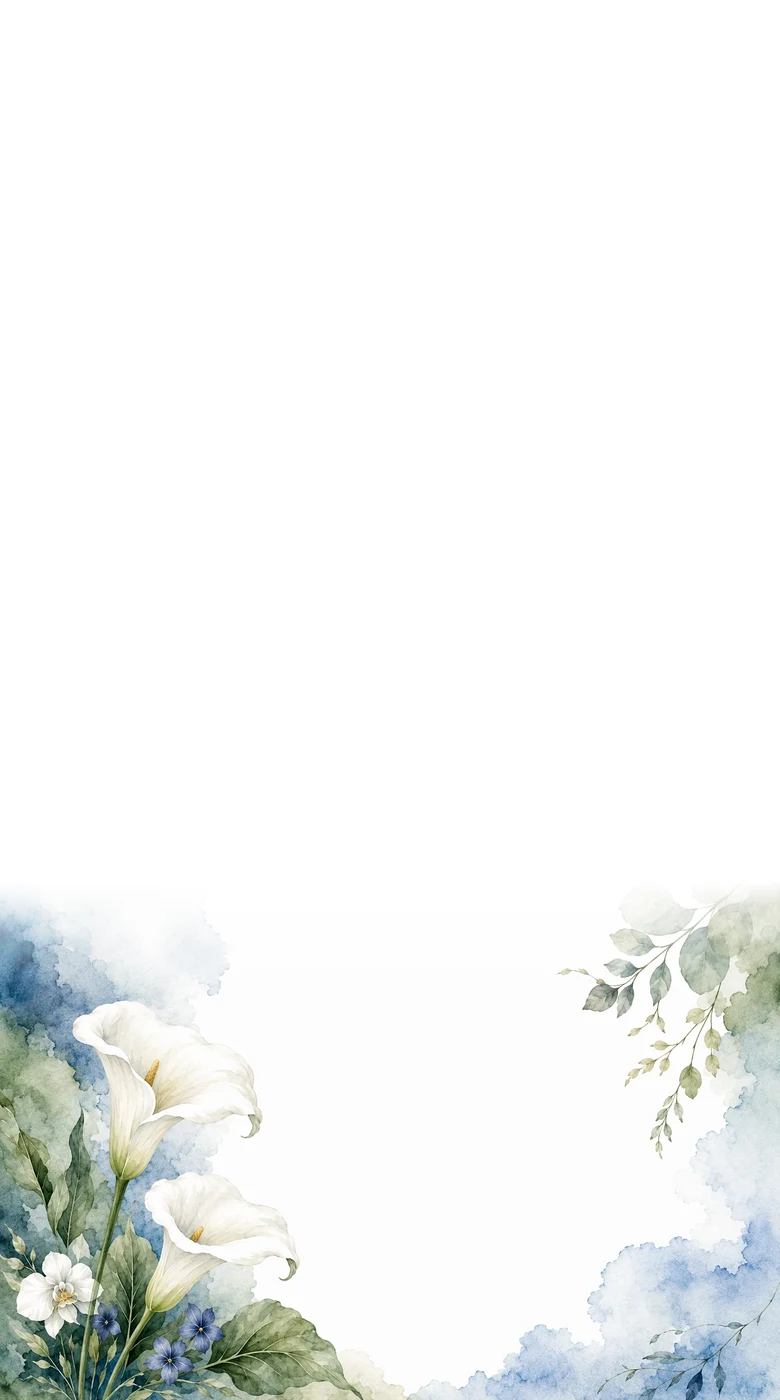
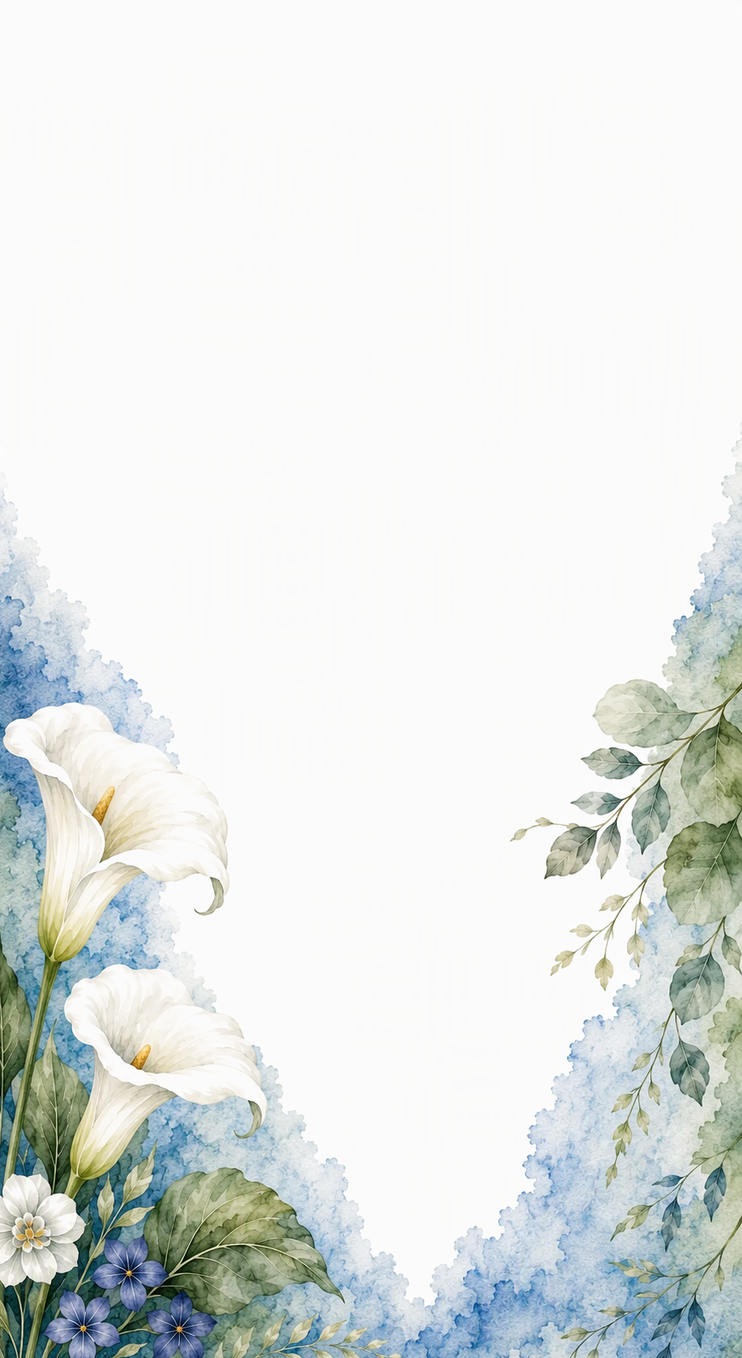
refina abertura mobile em V e substitui foto do casal

Changed region(s): [[0.0, 0.3402, 1.0, 1.0], [0.248, 0.7113, 0.279, 0.7423]]

diff --git a/src/index.css b/src/index.css
@@ -393,14 +393,18 @@
 /* Mobile composto em papel vertical; desktop acima de 860px permanece intacto. */
 @media (max-width: 860px) {
   .convite-site .herbario-abertura {
-    min-height: 0; padding: .5rem 1.25rem 12.5rem;
+    min-height: calc(100vw * 1358 / 742); padding: .5rem 1.25rem 12.5rem;
+    align-items: start;
     background: #fff url('/rebranding/mobile/abertura.webp') center bottom / 100% auto no-repeat;
   }
   .convite-site .herbario-texto { width: 100%; max-width: 30rem; margin: 0 auto; padding: 0; }
   .convite-site .herbario-convite { max-width: 18rem; margin-bottom: 1rem; }
-  .convite-site .herbario-nomes { font-size: clamp(4.5rem, 20vw, 6.5rem); line-height: 1.18; margin-top: 1.25rem; }
+  .convite-site .herbario-nomes { font-size: clamp(4.5rem, 20vw, 6.5rem); line-height: 1.1; margin-top: .5rem; }
   .convite-site .herbario-e { line-height: 1.15; margin: .2rem 0; }
-  .convite-site .data-destaque { margin-top: 1.5rem; padding: .6rem; }
+  .convite-site .data-destaque { margin-top: .75rem; padding: .6rem; }
+  .convite-site .abertura-local > span { display: block; }
+  .convite-site .abertura-local .abertura-local-separador { display: none; }
+  .convite-site .abertura-local > span:last-child { margin-top: .25rem; }
   .convite-site .herbario-acoes { margin-top: .75rem; }
   .convite-site .historia-livro,
   .convite-site .programa-dia,

diff --git a/src/features/casamento/Abertura.tsx b/src/features/casamento/Abertura.tsx
@@ -13,12 +13,9 @@ export default function Abertura() {
         <div className="data-destaque">
           <time dateTime={casamento.dataIso} className="data-por-extenso">{casamento.data}</time>
           <p className="data-destaque-local">{casamento.diaDaSemana}, às {casamento.horario}</p>
-          <p className="data-destaque-local">{casamento.local} · {casamento.cidade}</p>
+          <p className="data-destaque-local abertura-local"><span>{casamento.local}</span><span className="abertura-local-separador"> · </span><span>{casamento.cidade}</span></p>
         </div>
-        <nav className="herbario-acoes" aria-label="Ações do convite">
-          <a href="#presenca" className="acao-secundaria">Responder ao convite</a>
-          <a href="#casamento" className="acao-secundaria">Programa do dia</a>
-        </nav>
+
       </div>
     </section>
   );

diff --git a/src/features/casamento/NossaHistoria.tsx b/src/features/casamento/NossaHistoria.tsx
@@ -8,7 +8,7 @@ export default function NossaHistoria() {
           <img src="/rebranding/casal-celebracao.webp" width={1280} height={853} alt="Victória e Flávio abraçados durante uma celebração" loading="lazy" />
         </figure>
         <figure className="foto-album foto-juntos">
-          <img src="/rebranding/casal-juntos.webp" width={1400} height={788} alt="Victória e Flávio sorrindo juntos" loading="lazy" />
+          <img src="/rebranding/casal-juntos.webp" width={1400} height={788} alt="Flávio segurando Victória no colo, os dois sorrindo ao ar livre" loading="lazy" />
         </figure>
         <img src="/copo-de-leite-cartao.webp" width={819} height={524} alt="" aria-hidden="true" loading="lazy" className="album-flor" />
       </div>

diff --git a/docs/identidade-e-layout.md b/docs/identidade-e-layout.md
@@ -55,7 +55,7 @@ Usuário informou não haver problema com licenças do acervo. Não houve audito
 
 public/monograma-vf.png é o V & F original, raster PNG com transparência. Preservar desenho e proporção, sem recriar por tipografia e sem alegar vetorização. Usado na navegação e rodapé; a repetição adicional na abertura está oculta no layout atual.
 
-public/rebranding/casal-celebracao.webp e casal-juntos.webp são fotos reais convertidas dos JPG pessoais, reduzidas e sem EXIF. Mantidas por pedido do casal; não gerar substitutos representando as pessoas. Na história, molduras claras finas, sem inclinação de Polaroid; foto vertical 3:4 e foto horizontal sobreposta. Conferir o enquadramento dos rostos em alterações de tamanho.
+public/rebranding/casal-celebracao.webp e casal-juntos.webp são fotos reais pessoais, reduzidas e sem EXIF. Em 13/11/2026, casal-juntos.webp foi substituída por IMG_1630.HEIC, com orientação corrigida e recorte horizontal 1400 × 788 px preservando rostos e a pose de Flávio segurando Victória; original HEIC e foto anterior preservados. Mantidas por pedido do casal; não gerar substitutos representando as pessoas. Na história, molduras claras finas, sem inclinação de Polaroid; foto vertical 3:4 e foto horizontal sobreposta. Conferir o enquadramento dos rostos em alterações de tamanho.
 
 ## Composição por seção
 
@@ -74,7 +74,7 @@ public/rebranding/casal-celebracao.webp e casal-juntos.webp são fotos reais con
 
 Breakpoint principal: 860px. Desktop mantém a pintura de seção e conteúdo deslocado para as áreas claras. As pinturas de fundo atuais usam tamanho 100%/100% no desktop; verificar proporções ao mudar alturas e preferir reorganizar conteúdo a distorcer mais a arte.
 
-No celular, as seis pinturas ganham variantes verticais em public/rebranding/mobile/: a pintura original completa é reduzida proporcionalmente para o rodapé da folha, com uma aguada suave superior da mesma arte. Os fundos são dimensionados pela largura, sem ampliação pela altura do texto, recortes laterais ou banners separados. Conteúdo em coluna única sobre branco opaco (exceção na abertura mobile, sem fundos nos boxes); nomes empilhados, horários acima das descrições, formulário com botão de largura total. Fotos reais preservadas e sobrepostas. Desktop acima de 860px permanece intacto. Conferir composição em 320/390/430px além de overflow e funcionalidades; Safari e aparelho real exigem validação própria.
+No celular, as seis pinturas ganham variantes verticais em public/rebranding/mobile/: as seis artes foram recompostas em 780 × 1400 px com contorno orgânico em V aberto para cima: pintura nas laterais e branco descendo ao centro. Abertura aprovada pelo casal e aplicada também às outras cinco seções. Textura de aquarela preservada, sem desvanecimento artificial ou borda horizontal; arquivos WebP lossless. As novas composições reorganizam a botânica e não são simples recortes das artes desktop. Os fundos são dimensionados pela largura, sem ampliação pela altura do texto, recortes laterais ou banners separados. Conteúdo em coluna única sobre branco opaco (exceção na abertura mobile, sem fundos nos boxes); nomes empilhados, horários acima das descrições, formulário com botão de largura total. Fotos reais preservadas e sobrepostas. Desktop acima de 860px permanece intacto. Conferir composição em 320/390/430px além de overflow e funcionalidades; Safari e aparelho real exigem validação própria.
 
 ## Interação e acessibilidade
 
@@ -106,3 +106,13 @@ Herbário com pranchas antigas e Italianno foi a direção anterior. Primeira te
 ### Correção mobile — 11/11/2026
 
 Versão mobile anterior rejeitada pelo casal após publicação: flores cortadas, pinturas isoladas como banners e programa apertado. Correção local autorizada, seis recomposições das artes aprovadas (sem geração de pessoas), CSS restrito ao breakpoint de 860px. TypeScript, lint e build aprovados (0 erros/7 avisos existentes). Após suavizar bordas das pinturas, CDP 320/390/430/1280 passou: fontes, menu, erro de código e demonstração; sem overflow, imagens quebradas ou exceções JS. Captura final 390px inspecionada: flores completas na abertura, fundos integrados sem banners, horários empilhados e botão de formulário inteiro. O build aprovado antecede apenas o refinamento dos WebP, sem mudanças posteriores de CSS ou TypeScript. Aceite do casal e teste em aparelho real/Safari pendentes; sem commit/push/publicação nesta etapa.
+
+
+### Textura mobile — 13/11/2026
+
+Refeitas localmente as seis pinturas mobile a partir das artes desktop aprovadas, removendo o desvanecimento de 120 px e a aguada superior artificial. Dimensões e posição da arte preservadas; CSS, textos, desktop e demais assets intactos. Backup em .local. Comparação das seis imagens gerada; aceite visual antes de commit/push.
+
+
+### V aberto mobile — 13/11/2026
+
+Aplicadas seis novas artes locais, aprovadas visualmente pelo casal. Pinturas aprovadas; alteração posterior autorizada somente para micro-recorte da abertura mobile: 38 px à esquerda e 42 px da base no total (aproximadamente 5% e 3% da arte original), resultando em 742 × 1358 px; segundo incremento de 15 px à esquerda e 14 px na base sem redimensionamento do arquivo. Altura mínima CSS ajustada à nova proporção. Demais cinco artes intactas; comparação local antes/depois disponível em .local. Na abertura mobile, nomes/data compactados e local/cidade em linhas separadas para ocupar o branco central do V. Altura mínima acompanha a proporção da pintura, preservando espaço inferior. Link Responder ao convite retirado da abertura em todas as telas; acesso à presença permanece no menu e na seção própria. Desktop conserva a disposição das informações. TypeScript/lint/build e CDP 320/390/430/1280 aprovados (7 warnings existentes). Backup em .local. Teste em aparelho real pendente; aplicação local não implica publicação.

diff --git a/AGENTS.md b/AGENTS.md
@@ -19,3 +19,5 @@ Leia agents/publicacao.md. O workflow de FTP publica automaticamente após push 
 
 ## Identidade vigente — 11/11/2026
 Jardim em aquarela aprovado: seis pinturas próprias, copos-de-leite, orquídeas/violetas, azul/verde nas margens e boxes brancos 100% opacos; abertura mobile sem fundos nos pequenos boxes, conteúdo e controles opacos. Texto da abertura mobile elevado sem deslocar a pintura (refino posterior ao convite aprovado). Sloop Script Three nos nomes/títulos/rodapé, EB Garamond local no corpo/data. V & F original preservado em PNG; fotos reais mantidas. Informação prática e controles ficam sobre branco, sem cards de aplicativo. Leia docs/identidade-e-layout.md (manual consolidado) e docs/origem-botanica.md. Herbário, Italianno, Aphrodite e faixas repetidas são históricos, não instruções vigentes. Licenças informadas pelo usuário, sem auditoria independente. Design aprovado não autoriza push/deploy: esta entrega de acabamento é local e precisa conferência visual. Acervo em public ainda requer revisão antes de publicação, sem mover arquivos automaticamente.
+
+Artes mobile vigentes: seis recomposições em V aberto para cima, branco central profundo e aquarela nas laterais, sem blur/desvanecimento ou corte horizontal. Ver docs/identidade-e-layout.md.
